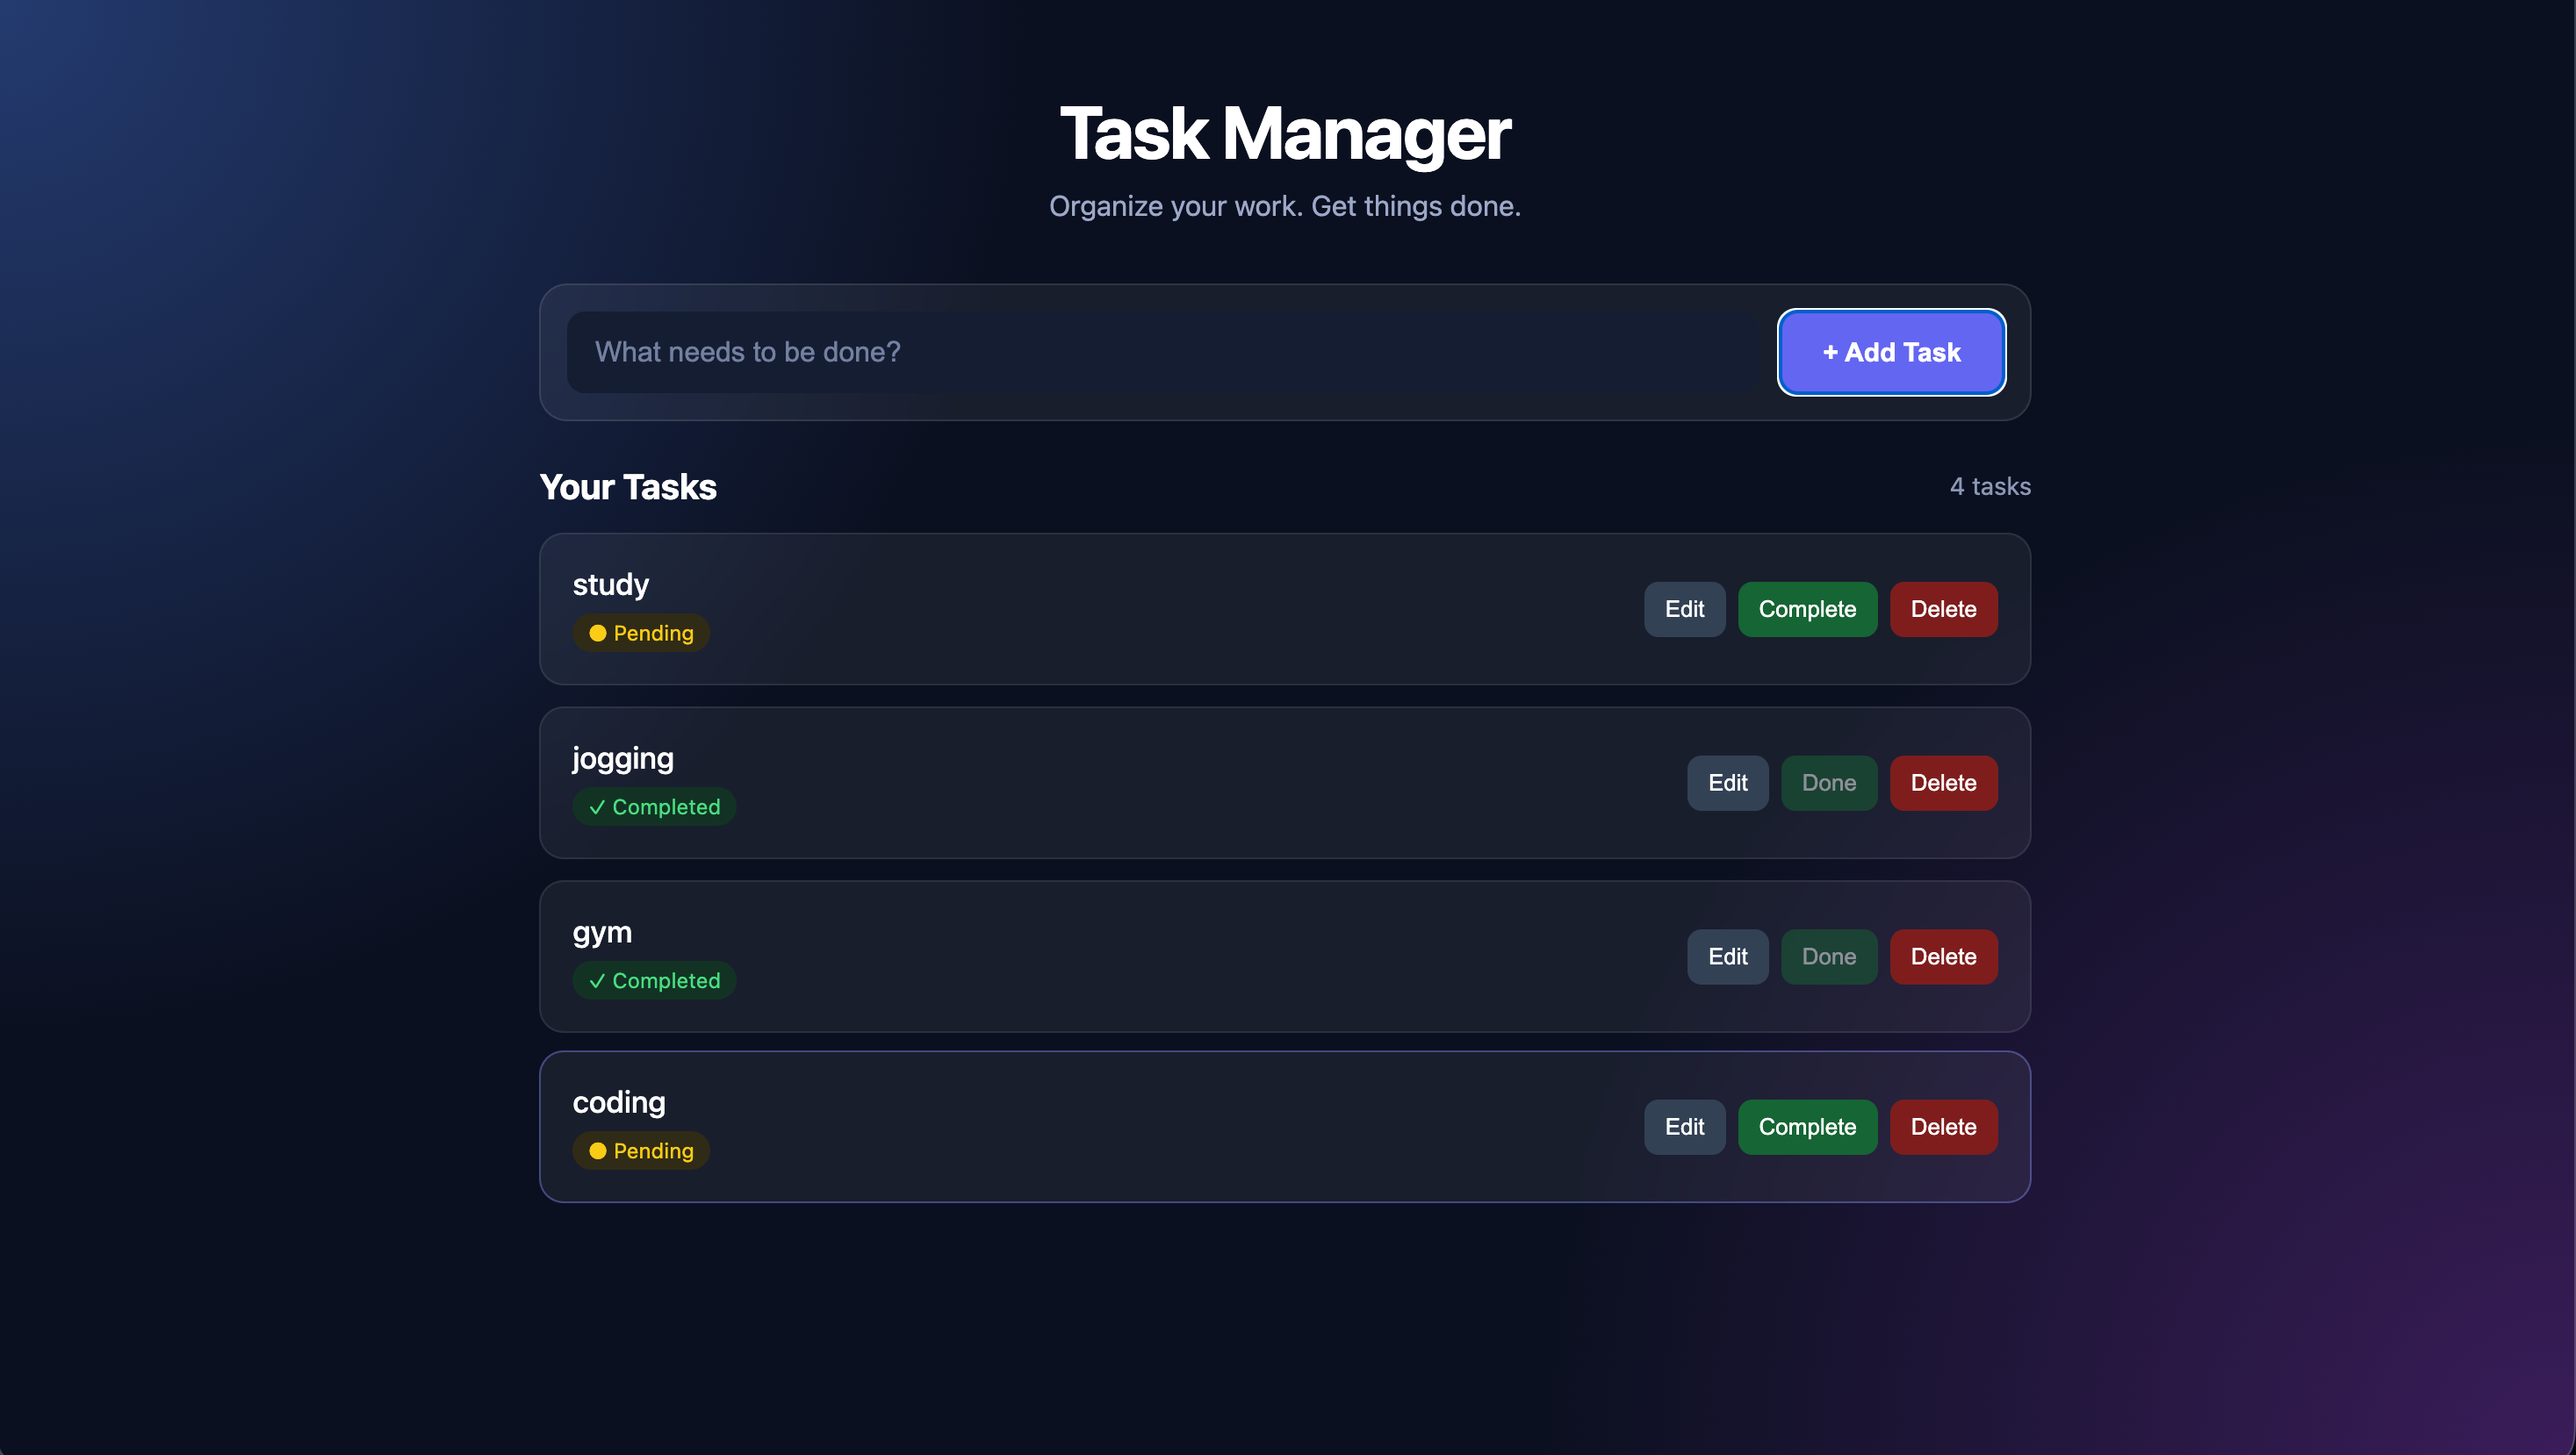
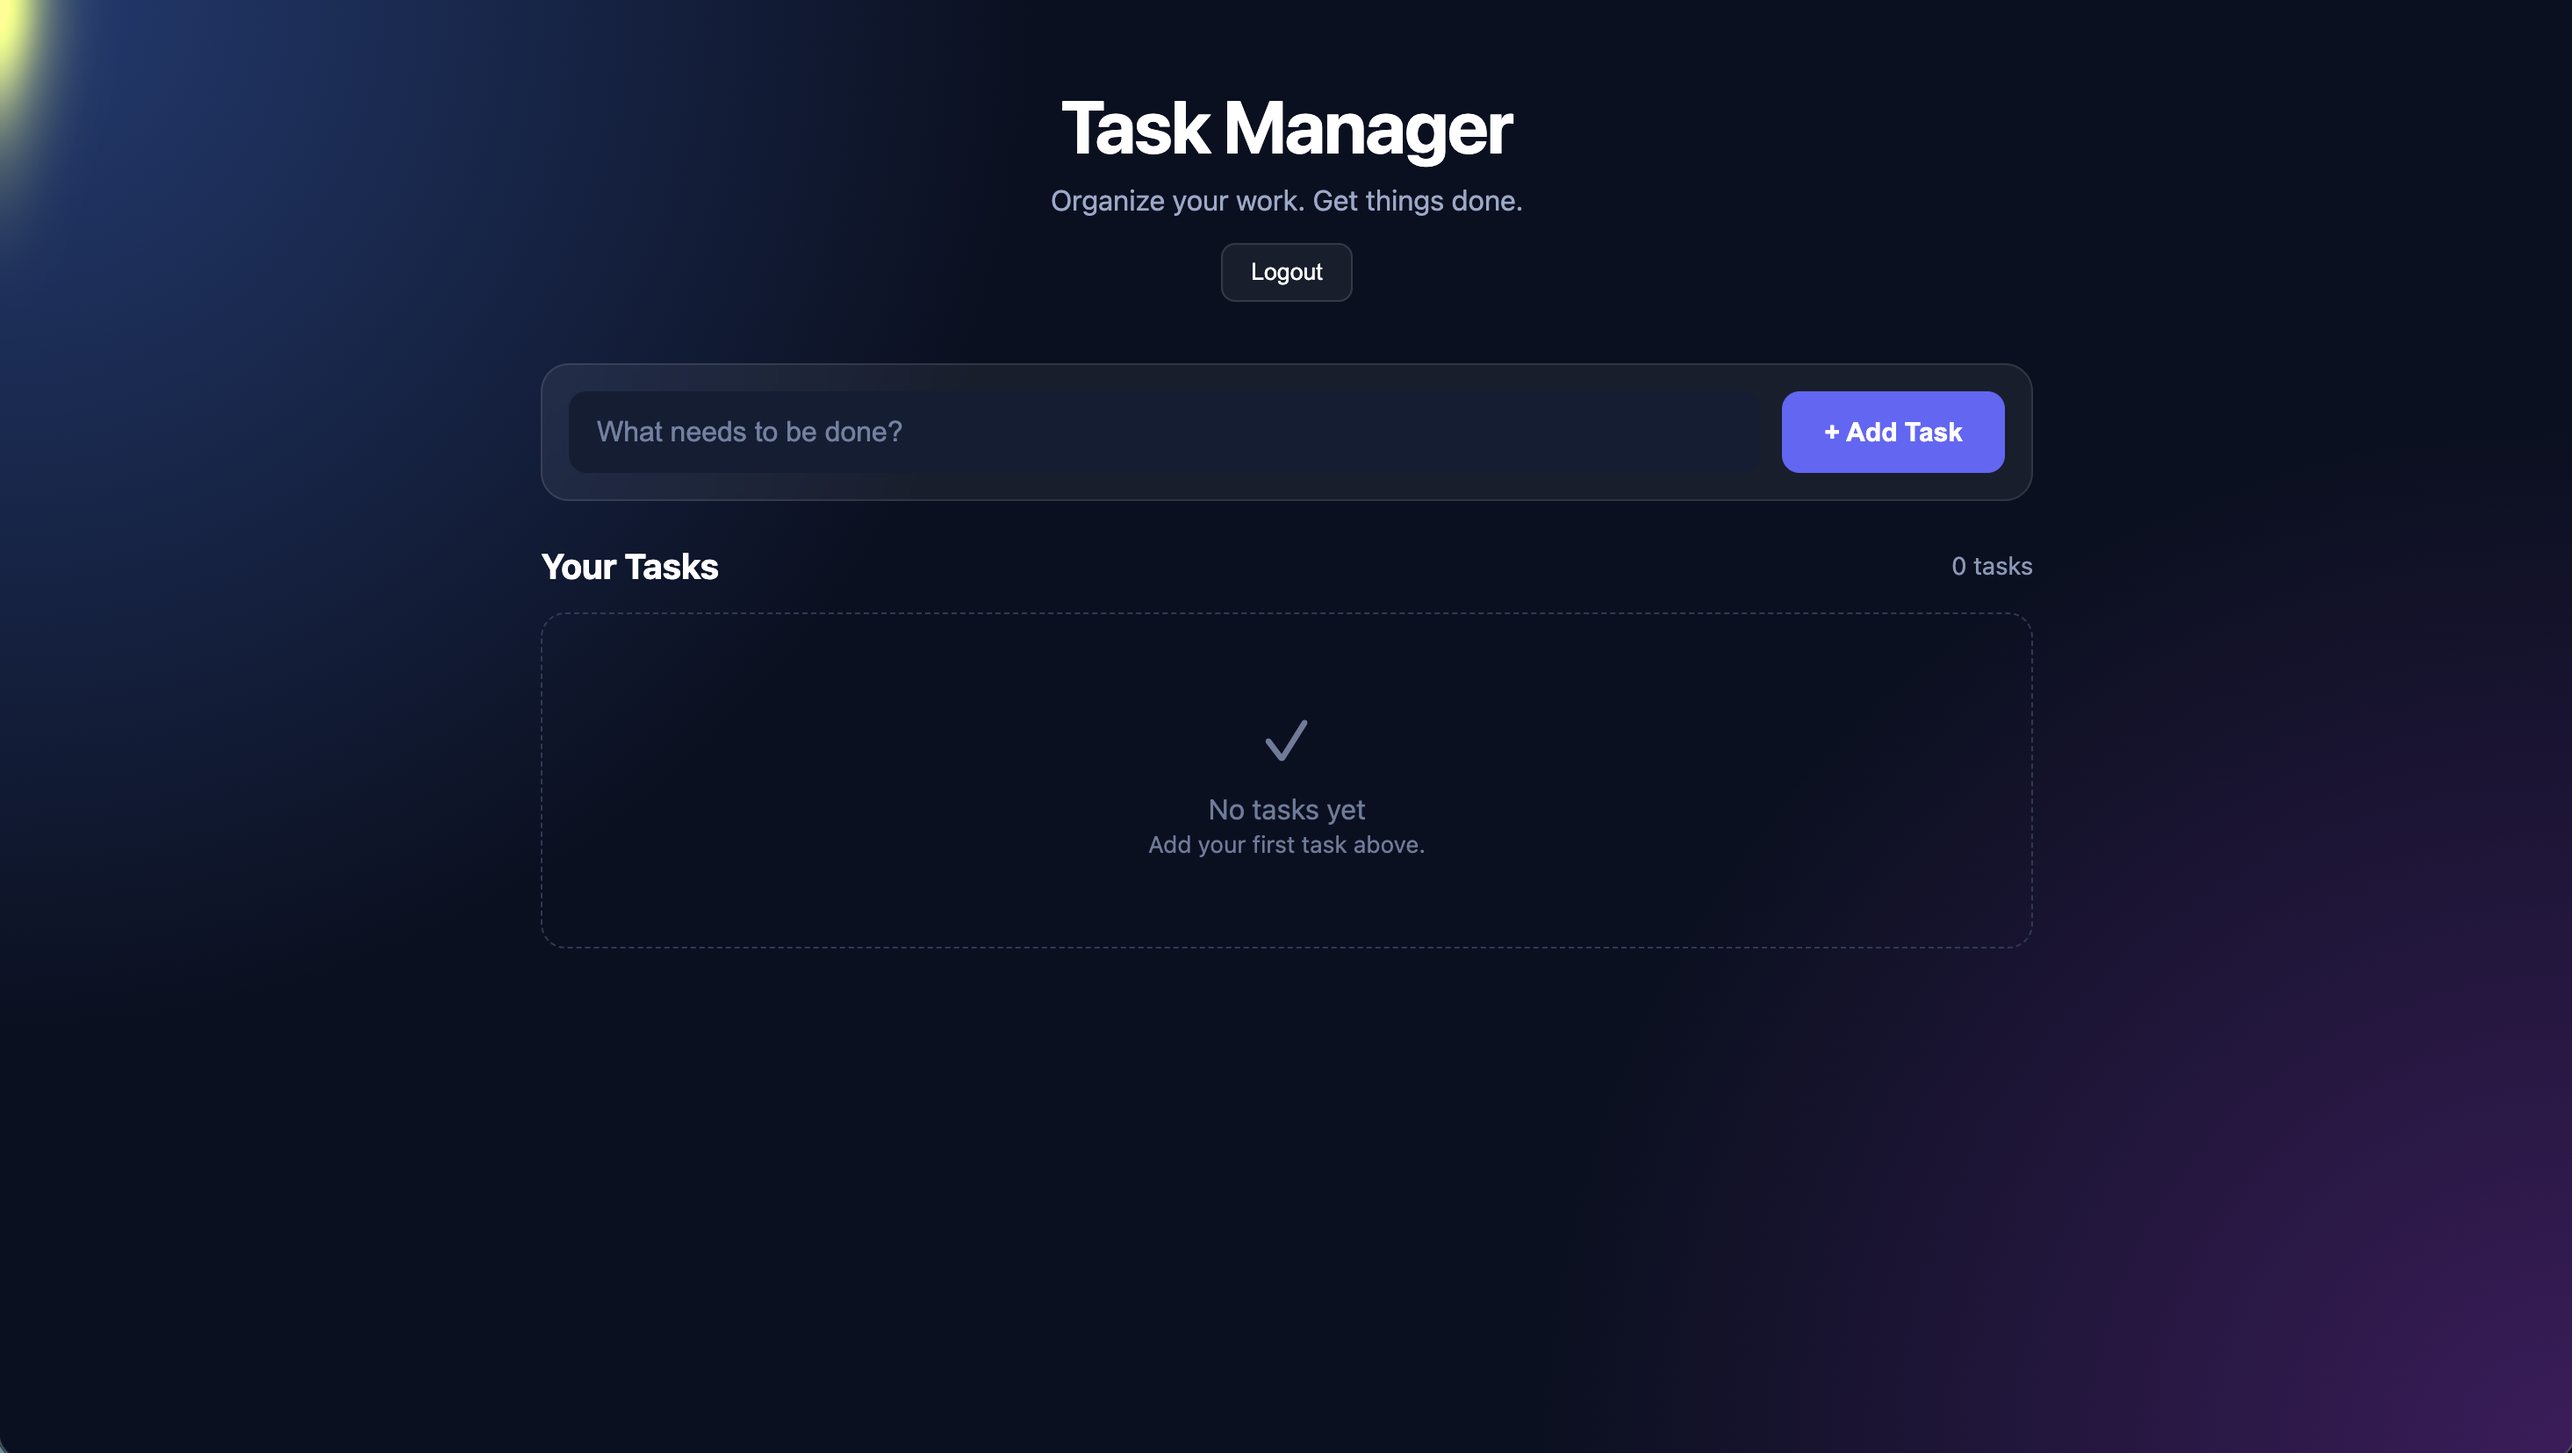
update screenshot,frontend

diff --git a/frontend/index.html b/frontend/index.html
@@ -391,7 +391,7 @@
 </div>
 
     <script>
-        const API = "http://127.0.0.1:8000";
+        const API = "https://task-manager-api-1-xy2g.onrender.com";
         let registerMode = false;
 
         function switchAuthMode() {

diff --git a/README.md b/README.md
@@ -1,3 +1,4 @@
+Got it — you want the **whole README as one medium-sized copy-paste text block**, not a shortened version.
 # 🚀 Task Manager API
 
 A full-stack task management application built with **FastAPI, PostgreSQL, SQLAlchemy, Pydantic, HTML, CSS, and JavaScript**.
@@ -14,6 +15,10 @@ https://task-manager-api-1-xy2g.onrender.com/docs
 
 ## ✨ Features
 
+- User registration
+- User login
+- JWT authentication
+- Protected task routes
 - Create tasks
 - View tasks
 - Update tasks
@@ -28,7 +33,7 @@ https://task-manager-api-1-xy2g.onrender.com/docs
 
 ## 🛠 Tech Stack
 
-**Backend:** Python, FastAPI, SQLAlchemy, Pydantic, PostgreSQL
+**Backend:** Python, FastAPI, SQLAlchemy, Pydantic, PostgreSQL, JWT, Passlib, bcrypt
 
 **Frontend:** HTML, CSS, JavaScript
 
@@ -36,23 +41,26 @@ https://task-manager-api-1-xy2g.onrender.com/docs
 
 ## 🏗 Architecture
 
-```text
+
 Frontend
+   ↓
+Login / Register
+   ↓
+JWT Authentication
    ↓
 FastAPI
    ↓
-CRUD
+Protected CRUD
    ↓
 SQLAlchemy
    ↓
 PostgreSQL
-```
 
 ## 📁 Project Structure
 
-```text
+
 task-manager-api/
-│
+
 ├── backend/
 │   ├── main.py
 │   ├── database.py
@@ -66,41 +74,87 @@ task-manager-api/
 │
 ├── screenshots/
 │   ├── frontend.png
+│   ├── login.png
+│   ├── register.png
 │   └── swagger.png
 │
 ├── .gitignore
 ├── Procfile
 ├── README.md
 └── requirements.txt
-```
+
 
 > `.env` contains environment variables and is kept locally. It is not committed to GitHub.
 
 ## 🔌 API Endpoints
 
-| Method | Endpoint | Description |
-|--------|----------|-------------|
-| GET | `/` | Get all tasks |
-| POST | `/tasks` | Create a task |
-| PUT | `/tasks/{id}` | Update a task |
-| DELETE | `/tasks/{id}` | Delete a task |
+| Method | Endpoint      | Description                 |
+| ------ | ------------- | --------------------------- |
+| POST   | `/register`   | Register a new user         |
+| POST   | `/login`      | Login and receive JWT token |
+| GET    | `/`           | Get all tasks               |
+| POST   | `/tasks`      | Create a task               |
+| PUT    | `/tasks/{id}` | Update a task               |
+| DELETE | `/tasks/{id}` | Delete a task               |
+
+### Register
+
+{
+  "email": "example@gmail.com",
+  "password": "your_password"
+}
+
+
+### Login
+
+{
+  "email": "example@gmail.com",
+  "password": "your_password"
+}
+
+
+Successful login returns a JWT token which is required for protected task routes.
 
 ### Create Task
 
-```json
+
 {
   "task": "Learn FastAPI"
 }
-```
+
 
 ### Update Task
 
-```json
+
 {
   "task": "Learn FastAPI",
   "status": "Completed"
 }
-```
+
+
+## 🔐 Authentication
+
+The application uses **JWT authentication** to protect task management routes.
+
+* Users can register and log in.
+* Passwords are hashed using Passlib and bcrypt.
+* Login generates a JWT token.
+* The frontend stores the token and sends it with protected requests.
+* FastAPI verifies the JWT before allowing access to protected routes.
+
+
+Register
+   ↓
+Login
+   ↓
+JWT Token
+   ↓
+Authorization: Bearer <token>
+   ↓
+JWT Verification
+   ↓
+Protected Task API
+
 
 ## 🗄 Database
 
@@ -108,48 +162,50 @@ The application uses **PostgreSQL** with **SQLAlchemy ORM**.
 
 The database connection is provided through an environment variable:
 
-```env
+
 DATABASE_URL=your_database_url
-```
+
 
 ## 💻 Run Locally
 
 Clone the repository:
 
-```bash
+
 git clone https://github.com/sabirahmed-dev/task-manager-api.git
 cd task-manager-api
-```
 
 Install dependencies:
 
-```bash
 pip install -r requirements.txt
-```
 
 Run the API:
 
-```bash
 uvicorn backend.main:app --reload
-```
 
 Local API:
 
-```text
+
 http://127.0.0.1:8000
-```
+
 
 Local Swagger:
 
-```text
 http://127.0.0.1:8000/docs
-```
+
 
 ## 📸 Screenshots
 
 ### Task Manager
 
 ![Task Manager](screenshots/frontend.png)
+
+### Login
+
+![Login](screenshots/login.png)
+
+### Register
+
+![Register](screenshots/register.png)
 
 ### FastAPI Swagger
 
@@ -159,21 +215,22 @@ http://127.0.0.1:8000/docs
 
 ### Before
 
-```text
+
 Flask + SQLite
-```
+
 
 ### Now
 
-```text
-FastAPI + PostgreSQL + SQLAlchemy + Pydantic
-```
+
+FastAPI + PostgreSQL + SQLAlchemy + Pydantic + JWT Authentication
+
 
 ## 👨💻 Author
 
 **Sabir Ahmed**
 
 BCA Student | Backend Developer
+
 
 
 
